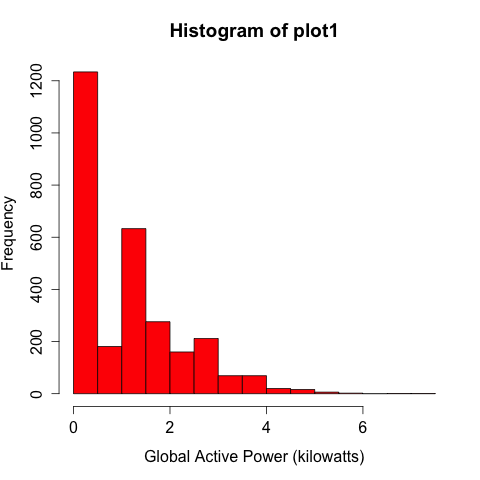
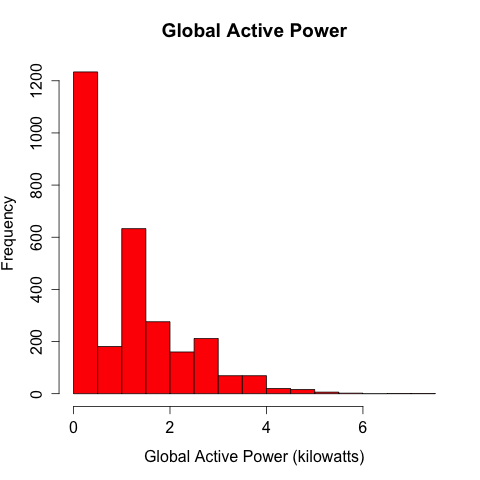
Readme added and plot1 title added

Changed region(s): [[0.3438, 0.0312, 0.7188, 0.0938]]

diff --git a/Readme_revision.md b/Readme_revision.md
@@ -1,0 +1,37 @@
+---
+title: "Readme_revision.md"
+output: html_document
+---
+
+---
+title: "Readme_revision.md"
+output: html_document
+---
+
+In order to execute the scripts to generate the png plots, you must download the dataset  <a href="https://d396qusza40orc.cloudfront.net/exdata%2Fdata%2Fhousehold_power_consumption.zip">Electric power consumption</a> 
+, unzip  and save the data file "household_power_consumption.txt" in the same directory. 
+
+Scripts can be executed with code similar to this:
+
+
+```
+source("plot1.R")
+```
+
+## This are the generated plots
+
+### Plot1 
+
+<img src="plot1.png">
+
+### Plot2
+
+<img src="plot2.png">
+
+### Plot3
+
+<img src="plot3.png">
+
+### Plot4
+
+<img src="plot4.png">
